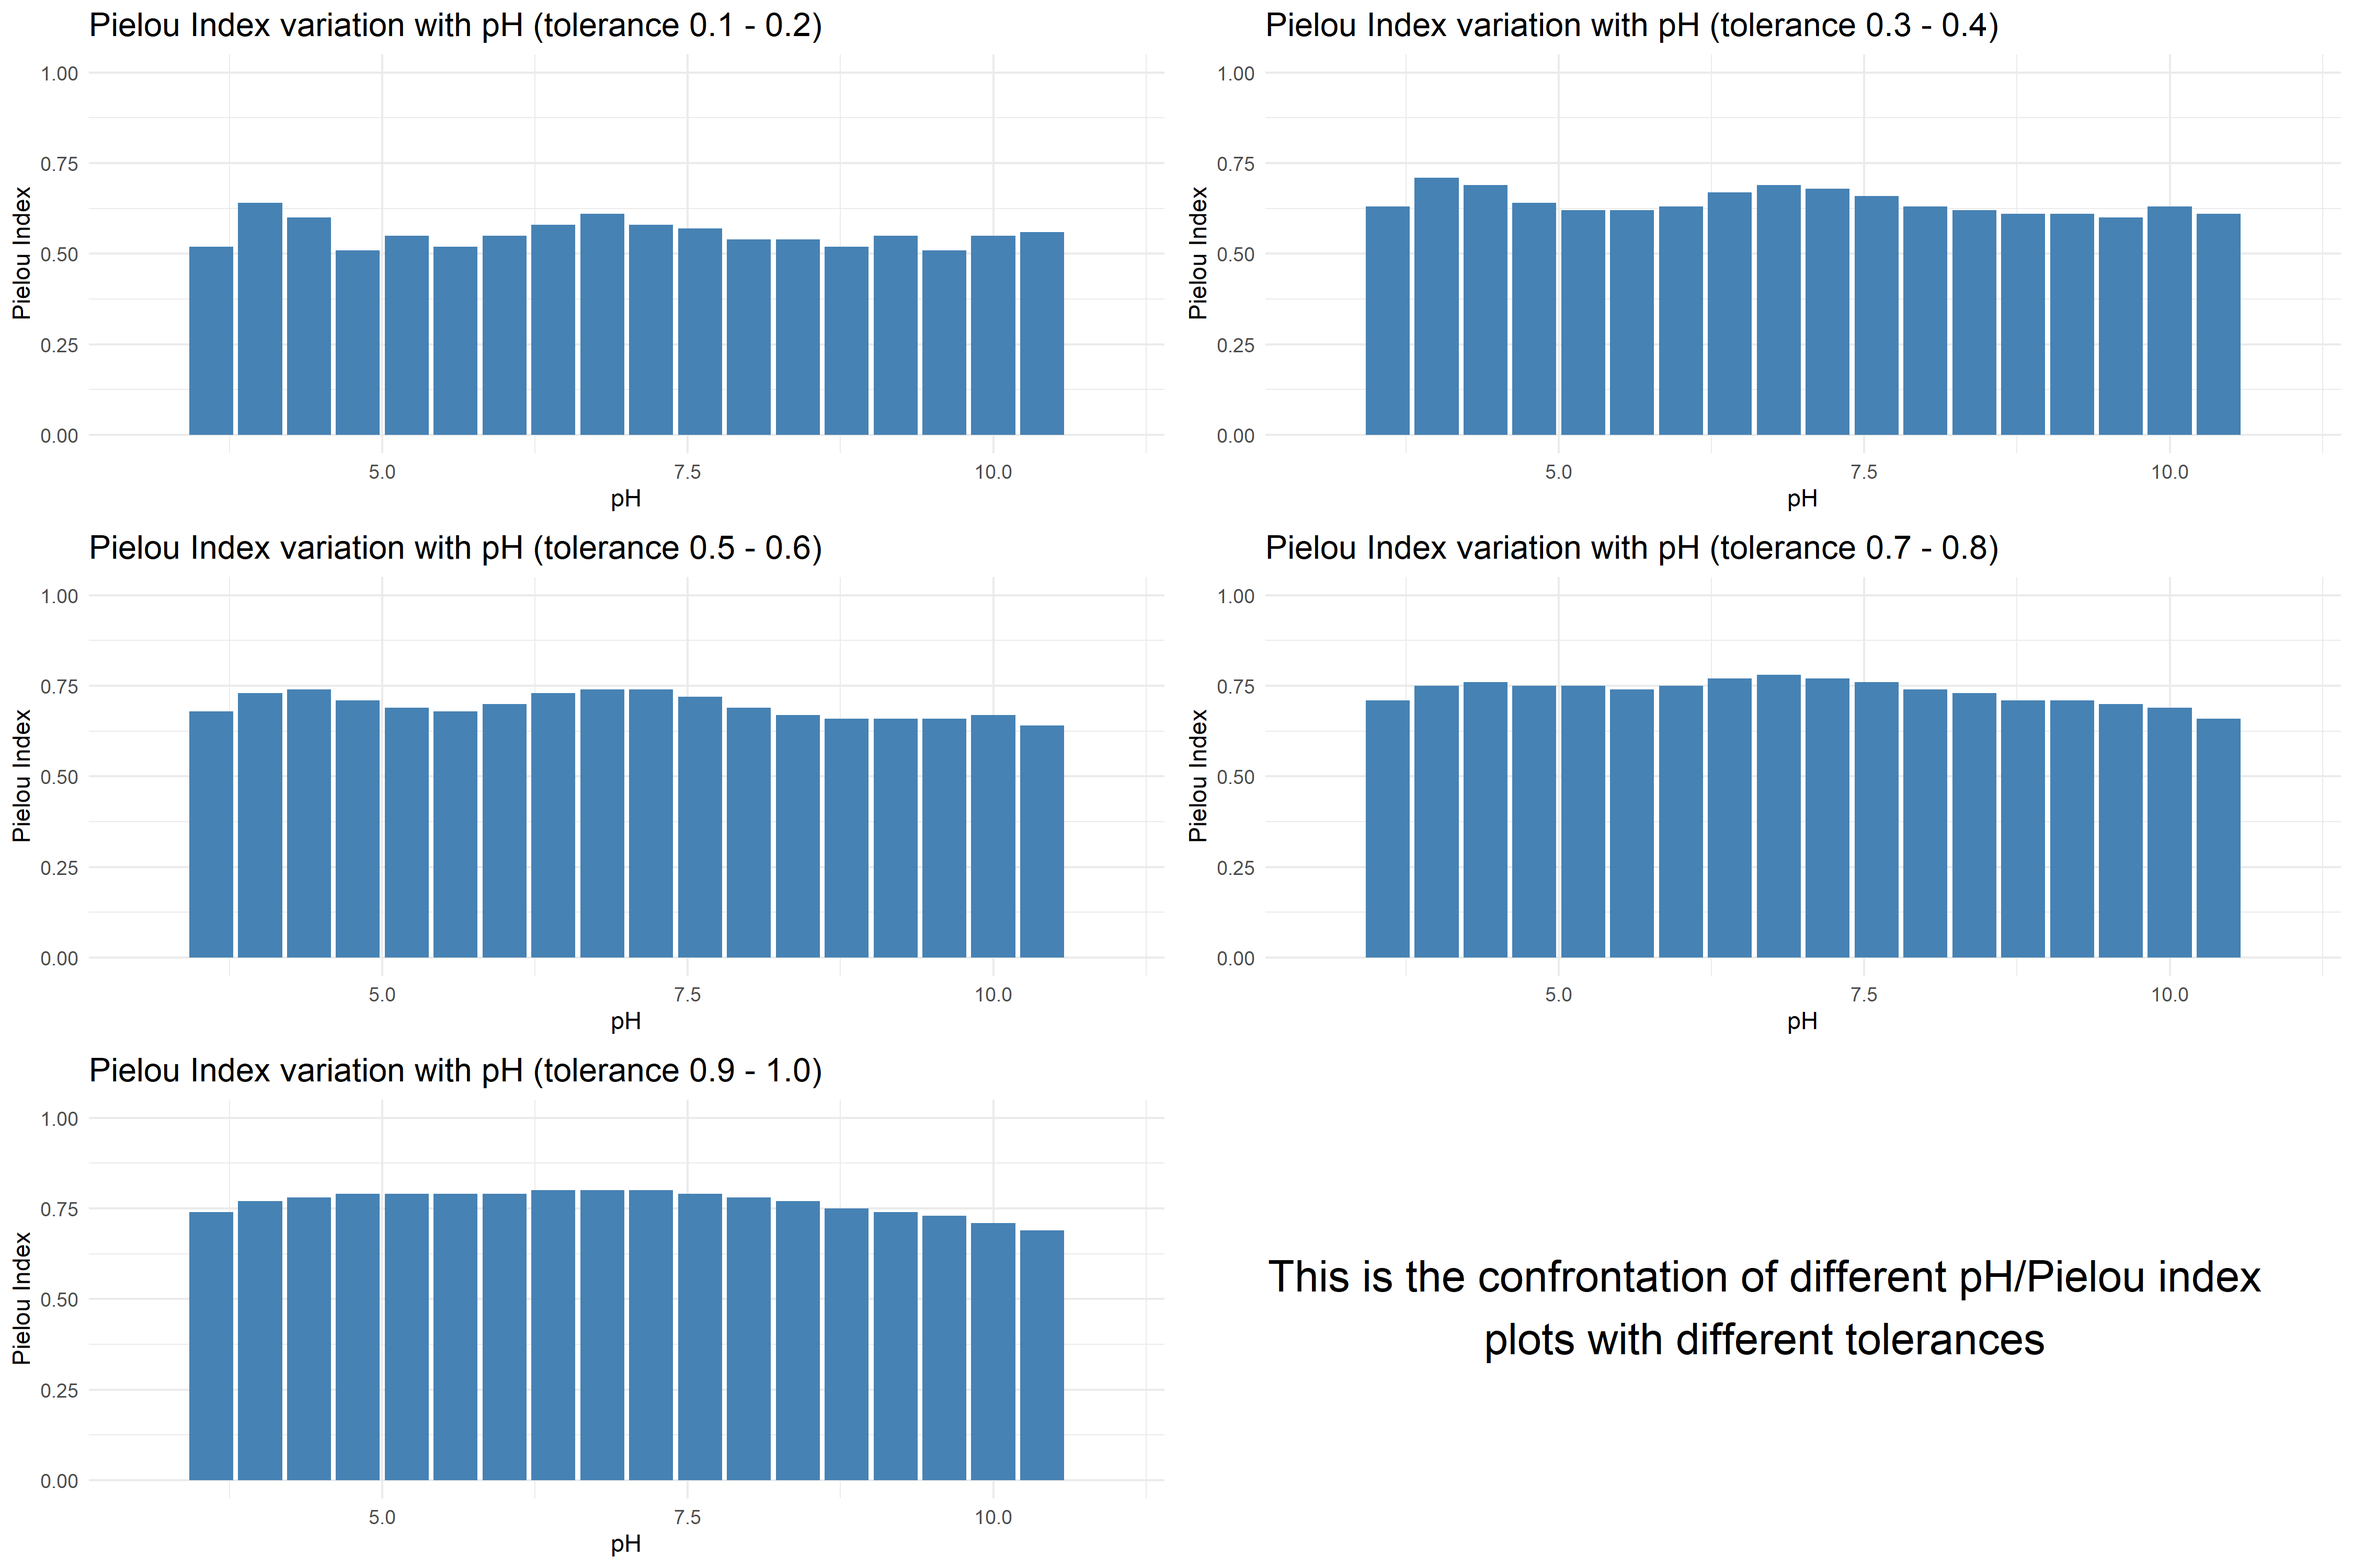
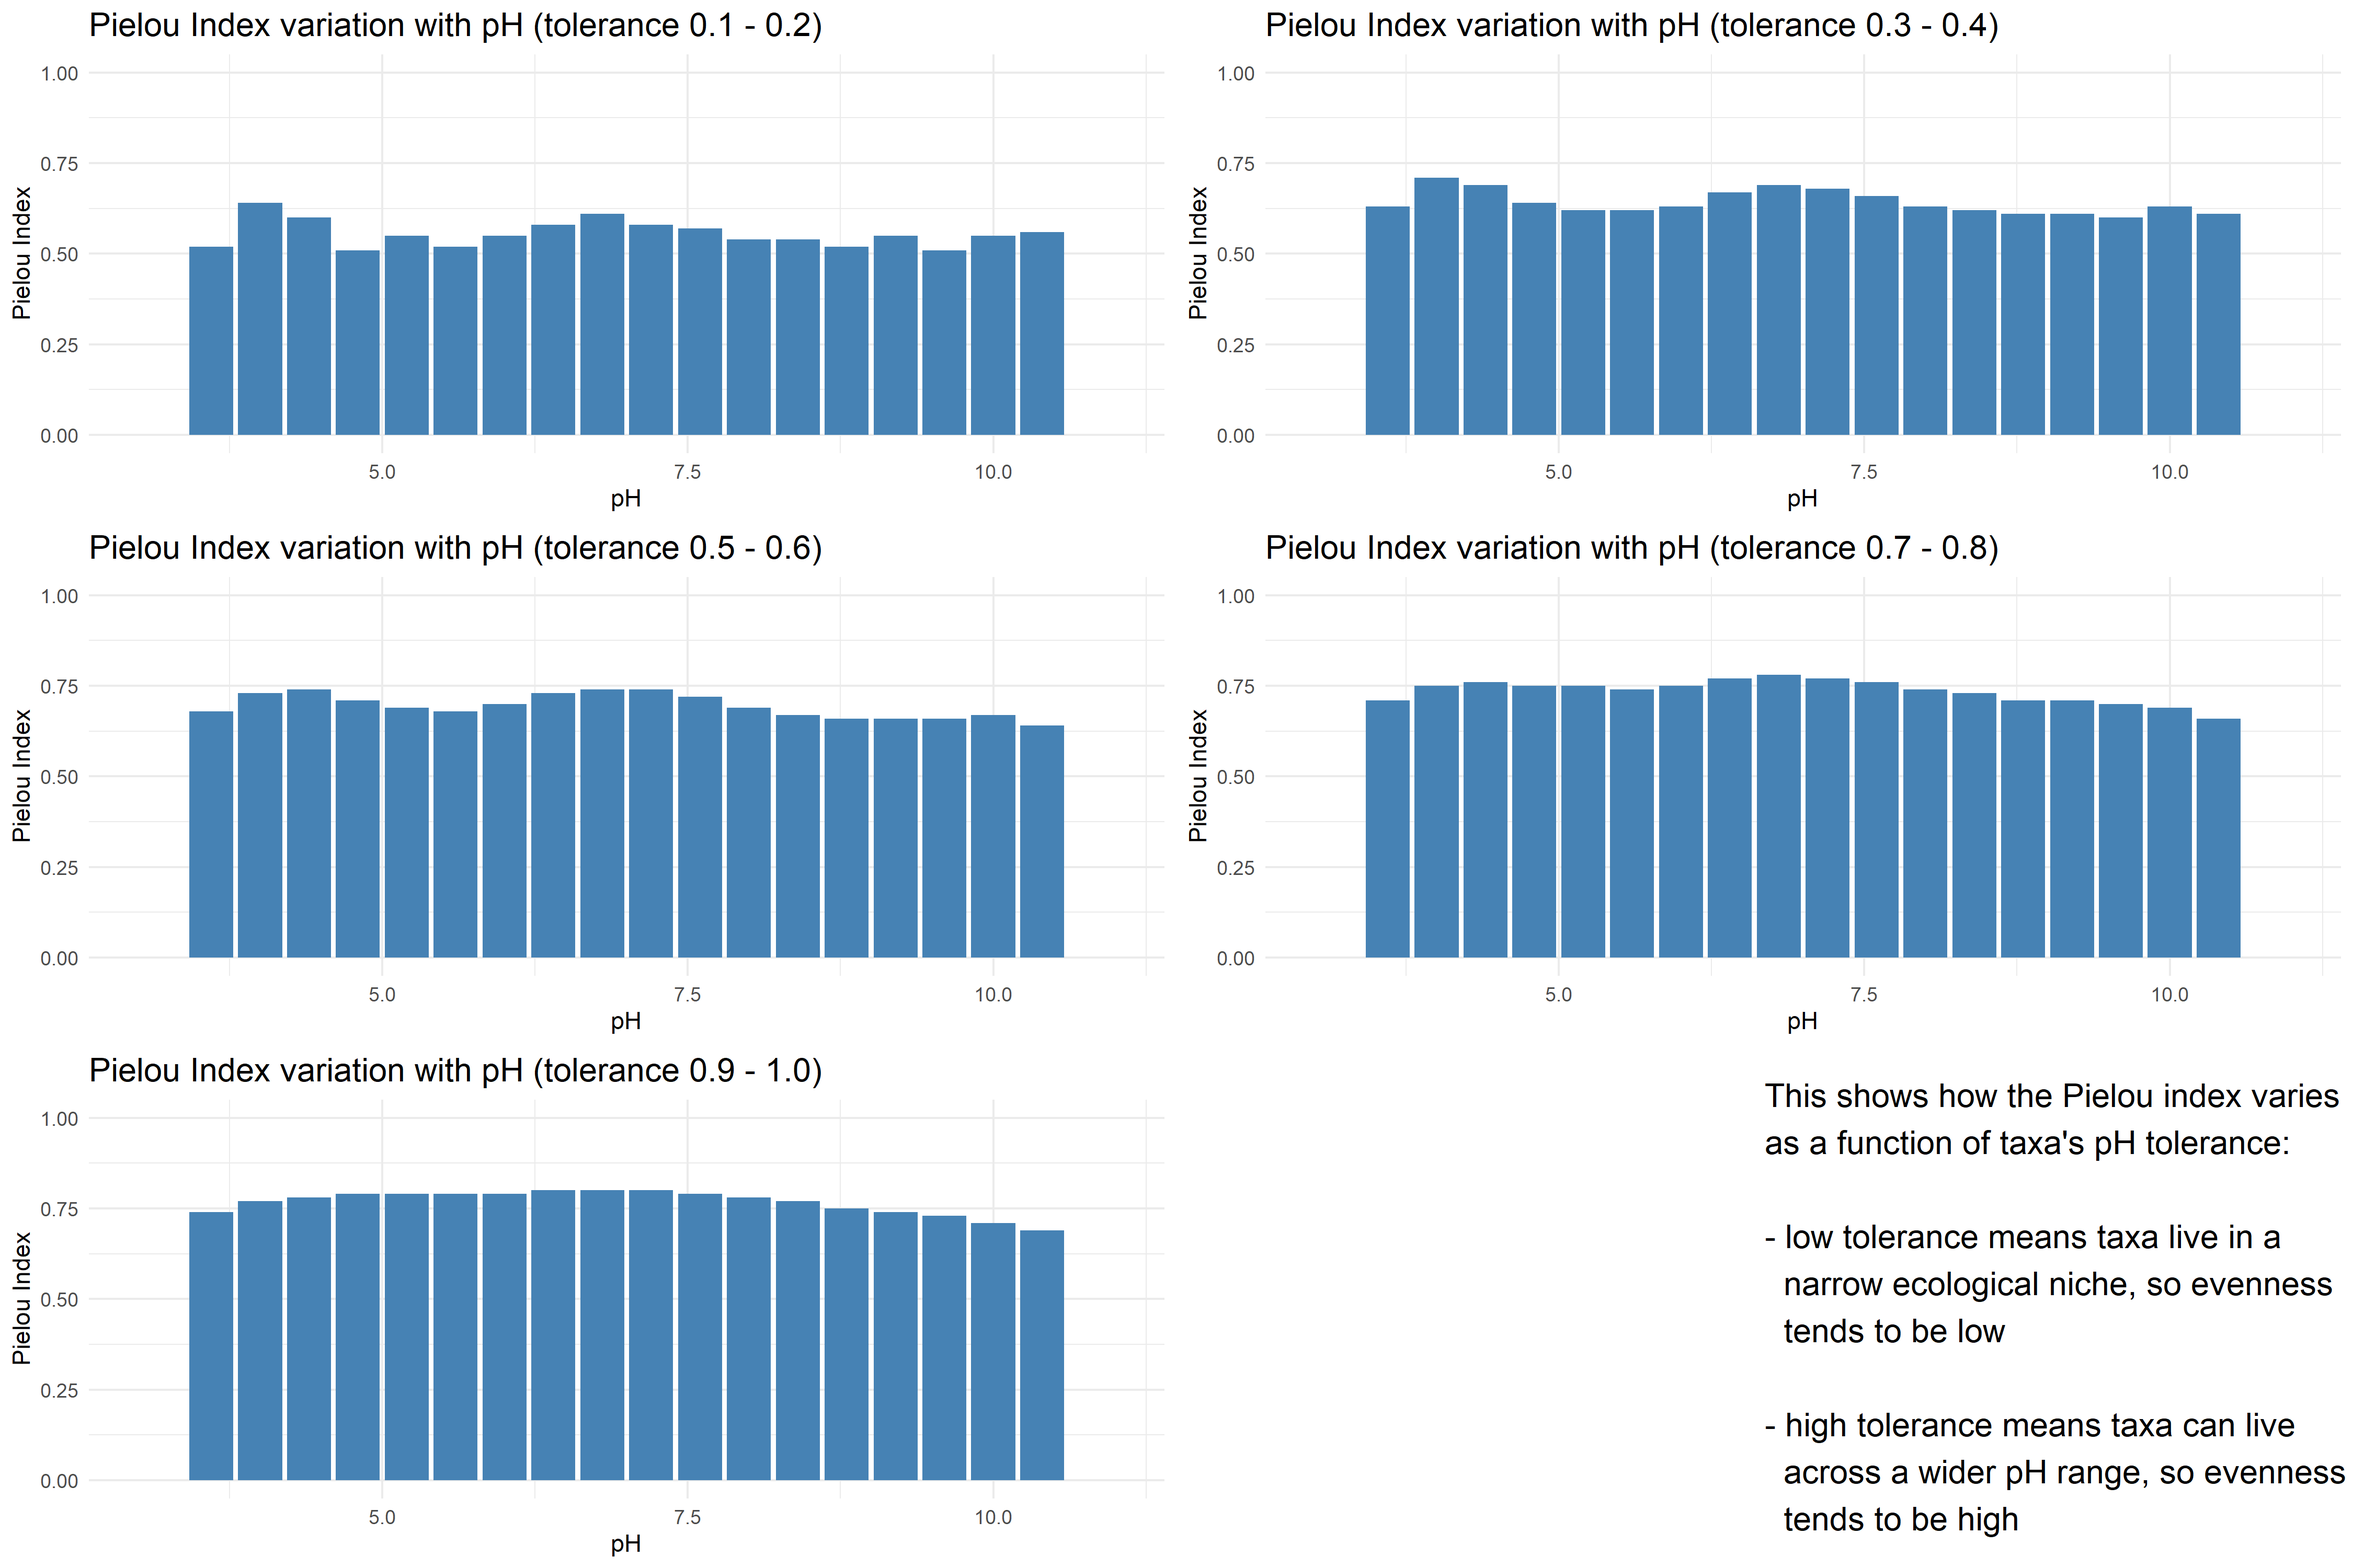
reworked the output for ph_pielou_confrontation.R (now the 6th has a longer message). Minor correction in the README.md

Changed region(s): [[0.5289, 0.775, 0.9956, 0.868], [0.7467, 0.899, 0.9956, 0.992], [0.7467, 0.682, 0.9956, 0.744]]

diff --git a/README.md b/README.md
@@ -172,9 +172,9 @@ The "demo" subfolder contains demonstrative scripts for some of the other script
 
 - **03_discarded_methods**: a somewhat misleading folder name, it contains a couple of scripts that I abandoned because they turned out not to be useful for the project as a whole.
 
-- **outputs**: present in the original repository; stores the outputs of a few scripts from `01_from_paper`.
+- **outputs**: present in the original repository; stores the outputs coming mainly from `01_from_paper/` (like in the original project) which are not necessarily plots.
 
-- **Plots**: same idea as the outputs folder, except it stores the plots produced by scripts from `01_from_paper`.
+- **Plots**: same idea as the outputs folder, except it stores mainly the plots.
 
 - **requirements**: contains one script listing all the libraries used in this repository (in the original repo it was just a loose script; I decided to put it in its own folder).  
 
@@ -311,6 +311,11 @@ Here follows the tree structure:
     └── test_03_discarded_methods/
         └── test-generate_matrix_with_zeroes.R  
 ```
+
+*Note: the folders "outputs" and "Plots" contain files that are not listed in the tree structure (which are the plots and outputs of all the scripts of this project).  
+This choice was liberate, with the aim was to reduce the visual impact of the tree which is already pretty big.  
+So, why not simply put the unlisted files in the .gitignore? Good question.  
+Let's say that this is to carry on the will to mirror the original folder.*
 
 ## Scripts in 02_new_scripts
 
